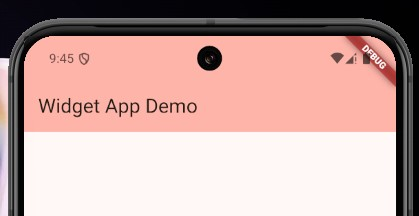
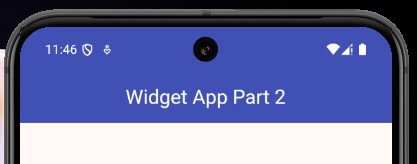
Readme

diff --git a/widget_app/lib/screen/home_screen.dart b/widget_app/lib/screen/home_screen.dart
@@ -12,21 +12,29 @@ class _HomeScreenState extends State<HomeScreen> {
   Widget build(BuildContext context) {
     return Scaffold(
       appBar: AppBar(
+        // Center digunakan agar text tampil di posisi tengah
         title: const Center(
           child: Text("Widget App Part 2"),
         ),
         backgroundColor: Colors.indigo,
+        // Foreground disini adalah warna untuk Text
         foregroundColor: Colors.white,
       ),
       body: Column(
         children: [
           const SizedBox(height: 50),
           Padding(
+            // Padding menggunakan symmetric agar bisa mengatur horizontal dan vertical yang berbeda.
             padding: const EdgeInsets.symmetric(horizontal: 24, vertical: 8),
+            // Container digunakan agar dapat memberi kesan kotak dan bisa diberi warna.
             child: Container(
+              // MediaQuery width ini bisa diartikan sebagai Full width
               width: MediaQuery.sizeOf(context).width,
+              // Alignment center agar konten didalam container ini di tengah
               alignment: Alignment.center,
+              // BoxDecoration untuk memberikan border radius, warna, dan styling lainnya
               decoration: BoxDecoration(
+                  // circular artinya disemua sisi memiliki radius yang sama
                   borderRadius: BorderRadius.circular(8),
                   color: Colors.indigo.shade50),
               child: const Padding(
@@ -52,9 +60,13 @@ class _HomeScreenState extends State<HomeScreen> {
               child: const Padding(
                   padding: EdgeInsets.symmetric(horizontal: 12),
                   child: TextField(
+                    // Untuk styling TextField menggunakan InputDecoration
                     decoration: InputDecoration(
+                      // LabelText adalah judul dari inputan
                       labelText: "Nama",
+                      // HintText adalah placeholder/bantuan pengisian data
                       hintText: "Masukkan nama...",
+                      // Disini saya menghilangkan border agar lebih simple
                       border: UnderlineInputBorder(
                         borderSide: BorderSide.none,
                       ),
@@ -91,26 +103,28 @@ class _HomeScreenState extends State<HomeScreen> {
               width: MediaQuery.sizeOf(context).width,
               decoration: BoxDecoration(
                 borderRadius: BorderRadius.circular(8),
+                // Disini saya memberi warna tombol menjadi indigo
                 color: Colors.indigo,
               ),
-              child: Padding(
-                padding: const EdgeInsets.symmetric(horizontal: 12),
-                child: TextButton(
-                  onPressed: () => {},
-                  child: const Row(
-                    mainAxisAlignment: MainAxisAlignment.center,
-                    children: [
-                      Icon(
-                        Icons.send_rounded,
-                        color: Colors.white,
-                      ),
-                      SizedBox(width: 8),
-                      Text(
-                        "Next",
-                        style: TextStyle(color: Colors.white),
-                      ),
-                    ],
-                  ),
+              child: TextButton(
+                // Saat Tombol di klik, maka akan mengubah state dan menampilkan datanya di section bawah ini.
+                onPressed: () => {},
+                // Menggunakan row agar icon dan text tampil secara horizontal
+                child: const Row(
+                  // Main axis alignment center berarti semua konten didalam row akan berada di tengah
+                  mainAxisAlignment: MainAxisAlignment.center,
+                  children: [
+                    // Widget Icon untuk menampilkan Icon yang sudah ada di Flutter
+                    Icon(
+                      Icons.send_rounded,
+                      color: Colors.white,
+                    ),
+                    SizedBox(width: 8),
+                    Text(
+                      "Next",
+                      style: TextStyle(color: Colors.white),
+                    ),
+                  ],
                 ),
               ),
             ),

diff --git a/widget_app/lib/main.dart b/widget_app/lib/main.dart
@@ -21,7 +21,9 @@ class MyApp extends StatelessWidget {
           colorScheme: ColorScheme.fromSeed(seedColor: Colors.red),
           useMaterial3: true,
         ),
+        // Untuk menghilangkan banner debug di kanan atas
         debugShowCheckedModeBanner: false,
+        // Import HomeScreen dari file yang berbeda
         home: const HomeScreen());
   }
 }

diff --git a/README.md b/README.md
@@ -14,7 +14,218 @@ _Note: Kode lengkap aplikasi ini ada di folder github "widget_app"_
 - [Data Diri](#data-diri)
 - [Daftar Isi](#daftar-isi)
 - [Flutter Widget Lanjutan](#flutter-widget-lanjutan)
+  - [Struktur File](#struktur-file)
+  - [Customize AppBar](#customize-appbar)
+  - [Form Title](#form-title)
+  - [Form Body](#form-body)
+  - [Button](#button)
 
 ### Flutter Widget Lanjutan
 
-Melanjutkan dari Flutter Widget Pertemuan-2 sebelumnya, disini saya akan mencoba eksplor lebih dalam tentang widget di flutter.
+Melanjutkan dari Flutter Widget Pertemuan-2 sebelumnya, disini saya akan mencoba eksplor lebih dalam tentang widget di flutter. <br>
+Pada pertemuan ke-3 ini saya fokus untuk belajar melakukan styling dan layouting menggunakan Flutter. Saya membuat form sederhana untuk menampilkan data yang telah diinput. <br>
+
+#### Struktur File
+
+Agar lebih rapi, file dari setiap screen/page akan dipisahkan. Masing masing akan diletakkan dalam folder `lib/screen`. <br>
+
+<p align="middle">
+  <img src="./assets/struktur-folder.jpg" />
+</p>
+
+Karena menggunakan file file yang berbeda, maka ada sedikit perubahan di file `main.dart`. <br>
+
+```dart
+import 'package:flutter/material.dart';
+import 'package:widget_app/screen/home_screen.dart'; // Import home screen dari file lain
+
+void main() {
+  runApp(const MyApp());
+}
+
+// Stateless artinya tidak ada perubahan yang dinamis alias statis
+// Tidak memerlukan state yang value nya bisa berubah-ubah
+class MyApp extends StatelessWidget {
+  const MyApp({super.key});
+
+  // build adalah root atau jalur utama dari aplikasi kita
+  @override
+  Widget build(BuildContext context) {
+    return MaterialApp(
+        title: 'Widget App Demo',
+        theme: ThemeData(
+          // Ini adalah tema basic untuk tampilan aplikasi kita
+          // Contohnya kita bisa mengubah tema warna dibawah ini menjadi merah
+          colorScheme: ColorScheme.fromSeed(seedColor: Colors.red),
+          useMaterial3: true,
+        ),
+        // Untuk menghilangkan banner debug di kanan atas
+        debugShowCheckedModeBanner: false,
+        // Import HomeScreen dari file yang berbeda
+        home: const HomeScreen());
+  }
+}
+```
+
+Pada file `home_screen.dart` hanya berisi tampilan untuk di di halaman atau screen Home saja.
+
+```dart
+class HomeScreen extends StatefulWidget {
+  const HomeScreen({super.key});
+
+  @override
+  State<StatefulWidget> createState() => _HomeScreenState();
+}
+
+class _HomeScreenState extends State<HomeScreen> {
+  @override
+  Widget build(BuildContext context) {
+    return ...
+  }
+}
+```
+
+#### Customize AppBar
+
+Membuat tampilan AppBar dengan Text ditengah dengan latar belakang indigo.
+
+```dart
+Scaffold(
+  appBar: AppBar(
+    // Center digunakan agar text tampil di posisi tengah
+    title: const Center(
+      child: Text("Widget App Part 2"),
+    ),
+    backgroundColor: Colors.indigo,
+    // Foreground disini adalah warna untuk Text
+    foregroundColor: Colors.white,
+  ),
+  body: ...
+)
+```
+
+<p align="middle">
+  <img src="./assets/appbar-1.jpg" />
+</p>
+
+#### Form Title
+
+```dart
+Padding(
+  // Padding menggunakan symmetric agar bisa mengatur horizontal dan vertical yang berbeda.
+  padding: const EdgeInsets.symmetric(horizontal: 24, vertical: 8),
+  // Container digunakan agar dapat memberi kesan kotak dan bisa diberi warna.
+  child: Container(
+    // MediaQuery width ini bisa diartikan sebagai Full width
+    width: MediaQuery.sizeOf(context).width,
+    // Alignment center agar konten didalam container ini di tengah
+    alignment: Alignment.center,
+    // BoxDecoration untuk memberikan border radius, warna, dan styling lainnya
+    decoration: BoxDecoration(
+        // circular artinya disemua sisi memiliki radius yang sama
+        borderRadius: BorderRadius.circular(8),
+        color: Colors.indigo.shade50),
+    child: const Padding(
+      padding: EdgeInsets.symmetric(horizontal: 24, vertical: 8),
+      child: Text(
+        "Masukkan Identitas Anda",
+        style: TextStyle(
+            fontSize: 18,
+            color: Colors.indigo,
+            fontWeight: FontWeight.w500),
+      ),
+    ),
+  ),
+),
+```
+
+<p align="middle">
+  <img src="./assets/form-1.jpg" />
+</p>
+
+#### Form Body
+
+Terdapat 2 input text, yaitu Nama dan NPM menggunakan widget `TextField`.
+
+```dart
+Padding(
+  padding: const EdgeInsets.symmetric(horizontal: 24),
+  child: Container(
+    width: MediaQuery.sizeOf(context).width,
+    decoration: BoxDecoration(
+      borderRadius: BorderRadius.circular(8),
+      color: Colors.grey.shade200,
+    ),
+    child: const Padding(
+        padding: EdgeInsets.symmetric(horizontal: 12),
+        child: TextField(
+          // Untuk styling TextField menggunakan InputDecoration
+          decoration: InputDecoration(
+            // LabelText adalah judul dari inputan
+            labelText: "Nama",
+            // HintText adalah placeholder/bantuan pengisian data
+            hintText: "Masukkan nama...",
+            // Disini saya menghilangkan border agar lebih simple
+            border: UnderlineInputBorder(
+              borderSide: BorderSide.none,
+            ),
+          ),
+        )),
+  ),
+),
+```
+
+<p align="middle">
+  <img src="./assets/input-1.jpg" />
+</p>
+
+<p align="middle">
+  <img src="./assets/input-2.jpg" />
+</p>
+
+<p align="middle">
+  <img src="./assets/input-3.jpg" />
+</p>
+
+#### Button
+
+Untuk membuat button di flutter bisa menggunakan widget `TextButton`. Namun saya bungkus menggunakan `Padding` dan `Container` agar tampilan lebih rapi dan menarik.
+
+```dart
+Padding(
+  padding: const EdgeInsets.symmetric(horizontal: 24),
+  child: Container(
+    width: MediaQuery.sizeOf(context).width,
+    decoration: BoxDecoration(
+      borderRadius: BorderRadius.circular(8),
+      // Disini saya memberi warna tombol menjadi indigo
+      color: Colors.indigo,
+    ),
+    child: TextButton(
+      // Saat Tombol di klik, maka akan mengubah state dan menampilkan datanya di section bawah ini.
+      onPressed: () => {},
+      // Menggunakan row agar icon dan text tampil secara horizontal
+      child: const Row(
+        // Main axis alignment center berarti semua konten didalam row akan berada di tengah
+        mainAxisAlignment: MainAxisAlignment.center,
+        children: [
+          // Widget Icon untuk menampilkan Icon yang sudah ada di Flutter
+          Icon(
+            Icons.send_rounded,
+            color: Colors.white,
+          ),
+          SizedBox(width: 8),
+          Text(
+            "Next",
+            style: TextStyle(color: Colors.white),
+          ),
+        ],
+      ),
+    ),
+  ),
+),
+```
+
+<p align="middle">
+  <img src="./assets/button-1.jpg" />
+</p>
